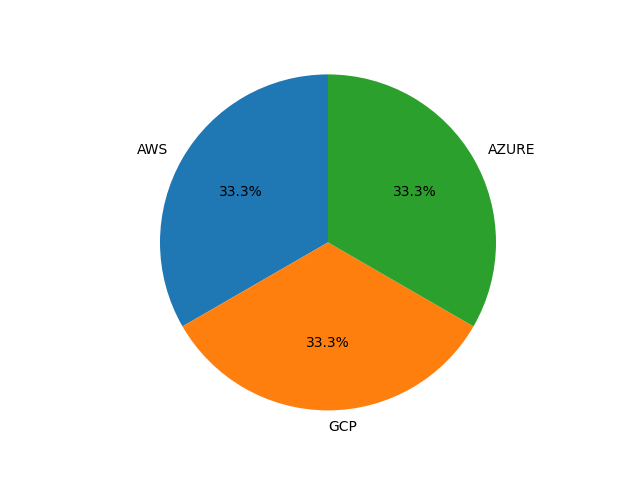
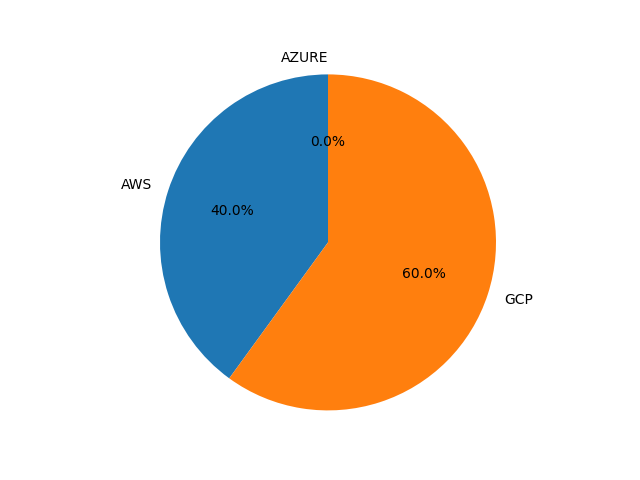
added docker file+compose, and some fixing

diff --git a/init-mongo.js b/init-mongo.js
@@ -1,0 +1,9 @@
+// Connect to admin database
+db = db.getSiblingDB('admin');
+
+// Create user
+db.createUser({
+    user: 'root',
+    pwd: 'root',
+    roles: [{ role: 'readWriteAnyDatabase', db: 'admin' }]
+});

diff --git a/app.py b/app.py
@@ -4,17 +4,20 @@ matplotlib.use('agg')  # Use a non-GUI backend to avoid threading issues with Fl
 
 import matplotlib.pyplot as plt
 import os
+from pymongo import MongoClient
 
 app = Flask(__name__)
+
+# MongoDB connection string
+client = MongoClient("mongodb://root:root@mongo:27017/vote_database?authSource=admin")
+db = client.vote_database  # Replace 'vote_database' with your database name
+votes_collection = db.votes  # Replace 'votes' with your collection name
 
 # Dictionary to hold questions and their options
 questions = {
     "AWS or GCP or AZURE": ["AWS", "GCP", "AZURE"],
     "YAML or JSON": ["YAML", "JSON"]
 }
-
-# Empty list to store votes
-votes = []
 
 UPLOAD_FOLDER = 'static/uploads'  # Define the folder to save chart images
 app.config['UPLOAD_FOLDER'] = UPLOAD_FOLDER
@@ -36,7 +39,8 @@ def submit_vote():
     for question, options in questions.items():
         choice = request.form.get(f'choice_{question}')
         if choice:
-            votes.append({"name": name, "question": question, "choice": choice})
+            vote = {"name": name, "question": question, "choice": choice}
+            votes_collection.insert_one(vote)  # Insert vote into MongoDB
 
     return redirect(url_for('results'))
 
@@ -45,7 +49,7 @@ def results():
     # Calculate vote results
     results = {}
     for question, options in questions.items():
-        results[question] = {option: sum(1 for vote in votes if vote['question'] == question and vote['choice'] == option) for option in options}
+        results[question] = {option: votes_collection.count_documents({"question": question, "choice": option}) for option in options}
     
     # Generate and save pie charts
     chart_paths = {}
@@ -72,4 +76,6 @@ def uploaded_file(filename):
     return send_from_directory(app.config['UPLOAD_FOLDER'], filename)
 
 if __name__ == '__main__':
+    if not os.path.exists(app.config['UPLOAD_FOLDER']):
+        os.makedirs(app.config['UPLOAD_FOLDER'])
     app.run(debug=True)

diff --git a/mongo.py b/mongo.py
@@ -1,0 +1,17 @@
+from pymongo import MongoClient
+
+def initialize_database():
+
+    mongo_uri = 'mongodb://root:root@mongo:27017/'
+    client = MongoClient(mongo_uri)
+    db = client['vote_database']
+
+  # Check if the collections already exist
+    if 'vote_database' not in db.list_collection_names():
+        # Create a collection for votes
+        votes_collection = db['vote_database']
+
+    print("Database initialized successfully.")
+
+if __name__ == "__main__":
+    initialize_database()
